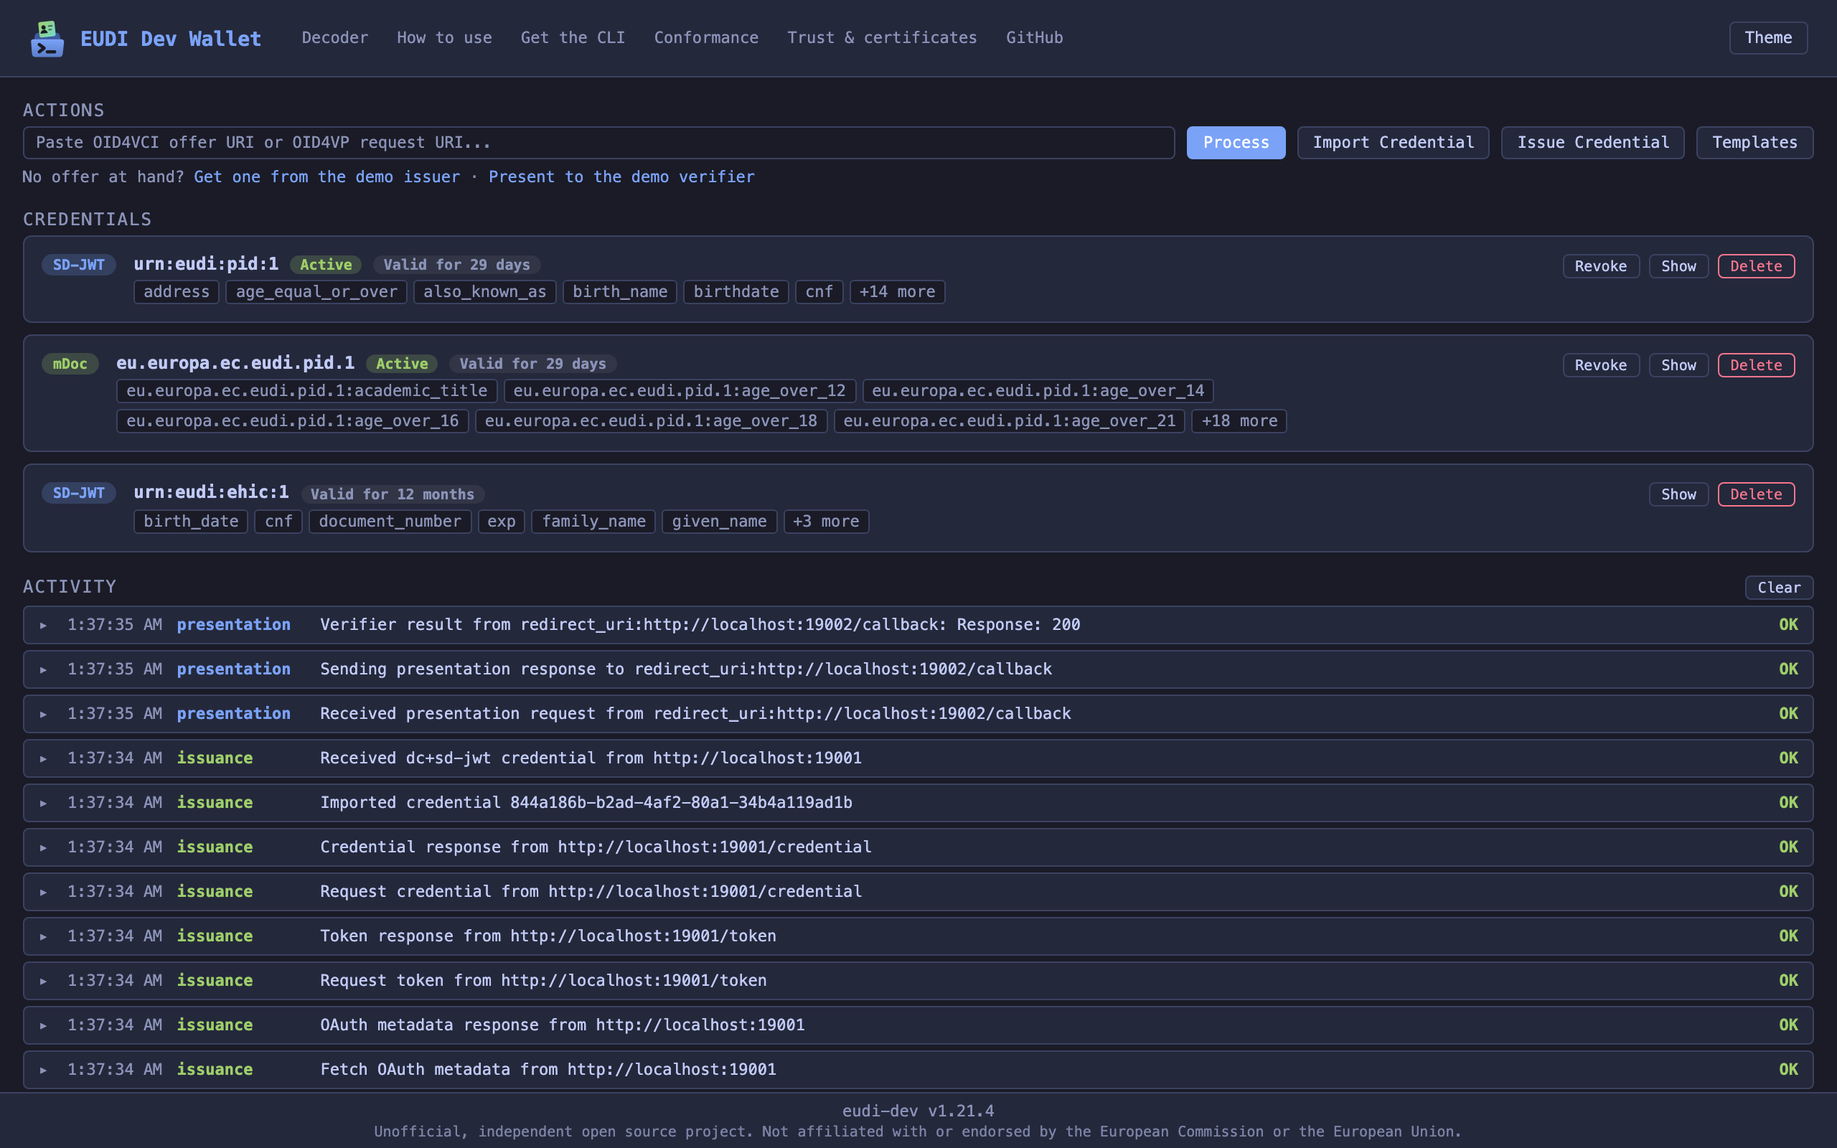
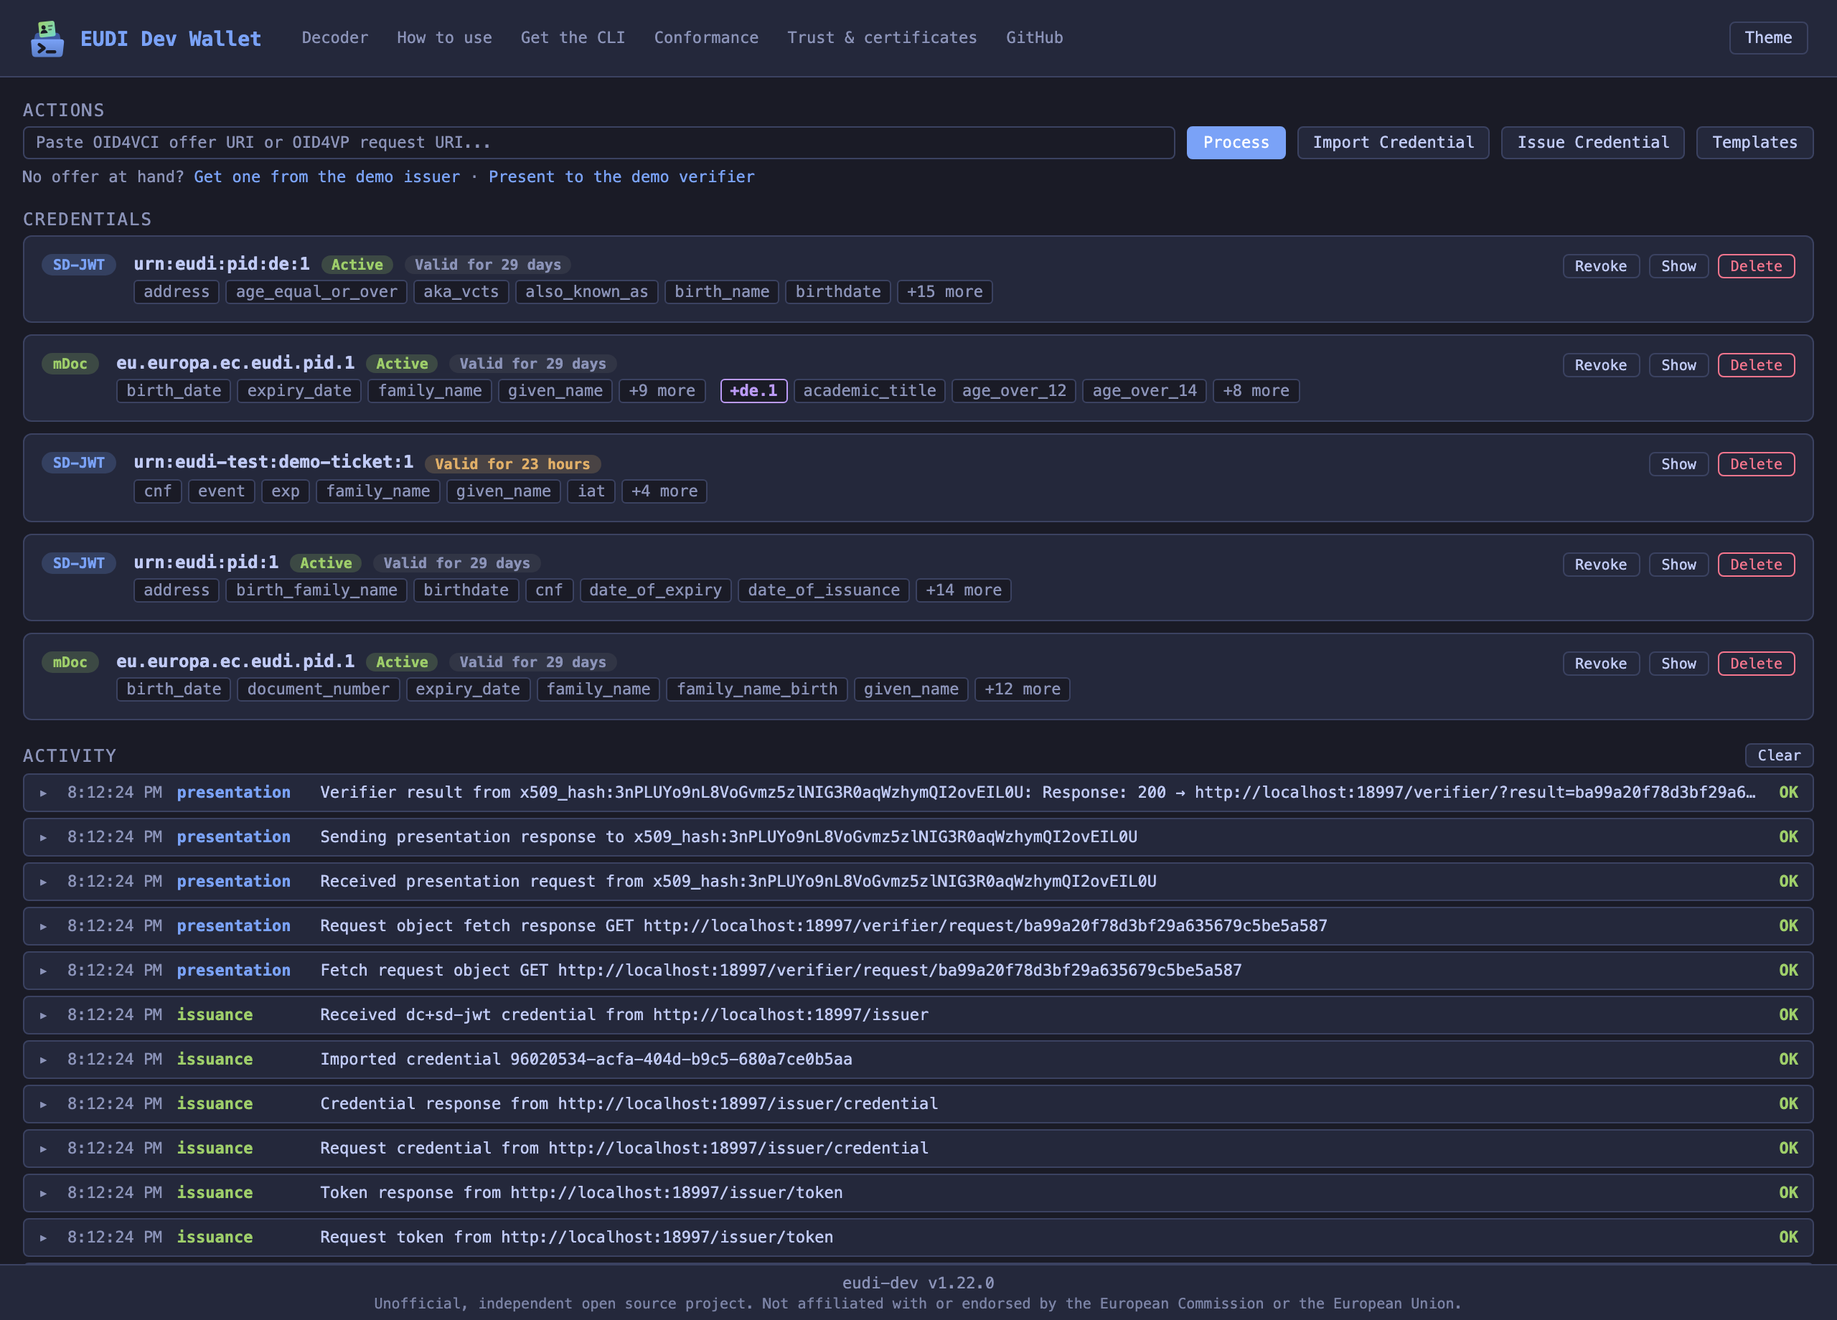
docs: state the PID types, inheritance and namespace grouping as they are

diff --git a/internal/demorp/static/verifier.html b/internal/demorp/static/verifier.html
@@ -93,13 +93,11 @@
     <button class="btn" id="request-pid" data-type="pid">Request the PID</button>
     <button class="btn" id="request-pid-de" data-type="pid" data-vct="urn:eudi:pid:de:1">Request the German PID</button>
     <p class="format-hint">
-      The PID request asks for <code>urn:eudi:pid:1</code>, which a national PID
-      answers as well because it extends that type. The German request asks for
-      <code>urn:eudi:pid:de:1</code>, which only a credential of that type can
-      answer, since inheritance runs one way. A national type is asked for in
-      SD-JWT VC alone: ISO/IEC 18013-5 has no inheritance between document types,
-      so every PID carries the same doctype and keeps its national elements in a
-      second namespace.
+      The PID request asks for <code>urn:eudi:pid:1</code>. A national PID answers
+      it too, because it extends that type. The German request asks for
+      <code>urn:eudi:pid:de:1</code>, which the German PID answers. It is SD-JWT VC
+      only, since every PID shares the mdoc doctype
+      <code>eu.europa.ec.eudi.pid.1</code>.
     </p>
     <div class="result" id="request-box">
       <div class="label">Open in the wallet on this host</div>

diff --git a/docs/wallet.md b/docs/wallet.md
@@ -96,18 +96,18 @@ The macOS URL handler honors the active remote wallet. While a remote target is 
 
 ## Credential type inheritance
 
-A national PID extends the country-independent one. The ARF requires it: PID_14 in Annex 2 (v3.0.0) says the vct "SHALL be `urn:eudi:pid:1` for the type defined in this document or a domestic type that extends it". `urn:eudi:pid:de:1` therefore carries every attribute `urn:eudi:pid:1` defines and adds the German ones, so a verifier asking for the general type is answered by the national credential. That is a rule, not a list: any type in the `urn:eudi:pid:` namespace whose next segment is a country or region rather than a version extends the country-independent PID, so `urn:eudi:pid:fr:1` behaves the same without anything here knowing about France. The wallet matches a DCQL `vct_values` entry against the credential's own type and against every type it extends, and its `[DCQL]` server log says when a credential matched under a type other than its own.
+A domestic PID extends the country-independent one. ARF Annex 2 (v3.0.0) PID_14 requires the vct to be "`urn:eudi:pid:1` for the type defined in this document or a domestic type that extends it", so `urn:eudi:pid:de:1` carries every attribute `urn:eudi:pid:1` defines plus the German ones.
 
-Inheritance runs one way. A request for `urn:eudi:pid:de:1` is not answered by a country-independent PID, which has not got the German attributes.
+The wallet matches a DCQL `vct_values` entry against the credential's own type and every type it extends. A request for `urn:eudi:pid:1` is answered by any PID, a request for `urn:eudi:pid:de:1` by a German PID. The `[DCQL]` server log names the requested type whenever a credential matched under a type other than its own.
 
-What the ARF does not say is how anyone discovers that relationship. The machine-readable form of it, a Type Metadata Document with an `extends` property ([SD-JWT VC](https://datatracker.ietf.org/doc/draft-ietf-oauth-sd-jwt-vc/) §4.4), is only a "SHOULD consider defining" (ARB_31), and it needs the document to be retrievable, which a `vct` that is a URN is not. So the wallet learns the relationship from two places instead:
+The relationship comes from two places:
 
-- the rule above, for PID types. This is what resolves real credentials today, since none of them carry `aka_vcts` yet
-- the `aka_vcts` claim of the credential (§2.2.2.2, added in draft-18 of 3 August 2026), which puts the statement in the credential itself. This is the general mechanism, and the only one for types outside `urn:eudi:pid:`: a credential of any type answers a request for every type it lists there. No EUDI rulebook requires it yet, so reading it is what makes the wallet work with issuers that adopt it. The German PID this tool issues carries it, to show the mechanism
+- the PID type itself. A segment after `urn:eudi:pid:` that is a country or region code (`urn:eudi:pid:de:1`, `urn:eudi:pid:fr:1`) marks a domestic type, which extends `urn:eudi:pid:1`. A segment that is a version number (`urn:eudi:pid:1`, `urn:eudi:pid:2`) marks the country-independent type
+- the `aka_vcts` claim ([SD-JWT VC](https://datatracker.ietf.org/doc/draft-ietf-oauth-sd-jwt-vc/) §2.2.2.2), which lists further types a credential is also of. It applies to every credential type, and the German PID this tool issues carries it
 
-None of this is a trust decision. Inheritance says what a credential is, never who may issue it (§6.6: "Verifiers and Holders MUST NOT assume that any issuer who issues a credential extending a known type is authorized to do so"). Issuer authorization is decided by the signature and trust list checks, unchanged.
+Inheritance states what a credential is, not who may issue it (§6.6: "Verifiers and Holders MUST NOT assume that any issuer who issues a credential extending a known type is authorized to do so"). Issuer authorization stays with the signature and trust list checks.
 
-mdoc has no equivalent, and the ARF does not invent one. ISO 18013-5 defines no inheritance between document types, so PID_05 fixes the doctype and namespace at `eu.europa.ec.eudi.pid.1` for every PID and PID_06 puts national elements in a domestic namespace built by appending the country code, `eu.europa.ec.eudi.pid.de.1` for Germany. A `doctype_value` request therefore reaches both PIDs already, and a claim query addresses a national element by its namespace: `"path": ["eu.europa.ec.eudi.pid.de.1", "birth_name"]`.
+In mdoc every PID carries the doctype `eu.europa.ec.eudi.pid.1` (PID_05), and national elements sit in a domestic namespace built by appending the country or region code to it (`eu.europa.ec.eudi.pid.de.1`, PID_06). A `doctype_value` request therefore reaches every PID, and a claim query addresses a national element by its namespace: `"path": ["eu.europa.ec.eudi.pid.de.1", "birth_name"]`.
 
 ## Storage
 
@@ -201,7 +201,7 @@ The server exposes:
 
 The consent dialog for a credential offer shows the issuer's name and origin, the flow the offer uses, whether a transaction code will be required, and for each offered credential its format, type, display name, description and declared claims. Everything beyond the offer itself is read from the issuer's metadata and is optional. An offer delivered as a `credential_offer_uri` is dereferenced for the dialog too, and fetched again when the offer is approved. If it cannot be retrieved, the dialog names the issuer it points at and approving retries.
 
-A credential card lists what the credential carries. For an mdoc that means each namespace by name with a few of its elements, because two credentials can share a doctype and differ only in the namespaces they use, as the two PIDs do.
+A credential card lists a few of the claims the credential carries. An mdoc element outside the doctype's own namespace is grouped under that namespace, labelled with the segments it adds (`+de.1` for `eu.europa.ec.eudi.pid.de.1` next to `eu.europa.ec.eudi.pid.1`, full identifier on hover). This is what tells two credentials of the same doctype apart, such as the two PIDs.
 
 Credentials can be issued interactively from the web UI. The Issue Credential dialog shows format specific fields and offers a claim builder next to a raw JSON editor. Selecting a credential template (for example the pre-defined `german-pid-sdjwt`) fills all fields so they can be reviewed and edited before issuing. A status list selector controls the embedded status reference (the wallet's own list when configured, none, or a custom URI and index).
 

diff --git a/docs/templates.md b/docs/templates.md
@@ -11,15 +11,15 @@ Four pre-defined templates ship with the binary, a PID per format for each of th
 | `german-pid-sdjwt` | sdjwt | German PID (`urn:eudi:pid:de:1`), which extends the EUDI PID |
 | `german-pid-mdoc` | mdoc | German PID (ISO 18013-5 elements, `eu.europa.ec.eudi.pid.1` plus `eu.europa.ec.eudi.pid.de.1`) |
 
-The `pid-*` templates follow the attribute tables of the [EUDI PID Rulebook](https://github.com/eu-digital-identity-wallet/eudi-doc-attestation-rulebooks-catalog/blob/main/rulebooks/pid/pid-rulebook.md), which now lives in the attestation rulebooks catalog rather than in the ARF annex it was taken out of. The `german-pid-*` templates follow the claim table of the [German PID Rulebook](https://demo.pid-provider.bundesdruckerei.de/credential-claims). All four describe that provider's ERIKA MUSTERMANN test identity, so what separates them is the rulebook rather than the person.
+The `pid-*` templates follow the attribute tables of the [EUDI PID Rulebook](https://github.com/eu-digital-identity-wallet/eudi-doc-attestation-rulebooks-catalog/blob/main/rulebooks/pid/pid-rulebook.md) (version 1.7). The `german-pid-*` templates follow the claim table of the [German PID Rulebook](https://demo.pid-provider.bundesdruckerei.de/credential-claims). All four describe that provider's ERIKA MUSTERMANN test identity, so the rulebook is what separates them.
 
-The German PID is not a superset of the country-independent one. It adds national attributes (`birth_name`, `title`, `also_known_as`, `source_document_type`, `no_place_info`, and the age thresholds, which the EU rulebook dropped in version 1.1 following CIR 2024/2977), leaves out claims the German eID does not supply (portrait, sex, email, phone number, document number, personal administrative number, issuing jurisdiction, issuance date, age_in_years, age_birth_year, birth given and family name), and encodes some shared attributes differently: a birth name under `birth_name` rather than `birth_family_name`, and a street address with the house number folded into it.
+Each rulebook defines its own attribute set. The German one adds national attributes (`birth_name`, `title`, `also_known_as`, `source_document_type`, `no_place_info`, and the age thresholds in `age_equal_or_over`). The EU one carries attributes the German eID leaves to other documents (`sex`, `document_number`, `personal_administrative_number`, `date_of_issuance`, `birth_family_name`). Shared attributes can be encoded differently: the German birth name is `birth_name` where the EU one is `birth_family_name`, and the German street address holds the house number where the EU one has `address.house_number`.
 
-The German SD-JWT PID carries an `aka_vcts` claim naming `urn:eudi:pid:1`. That is what tells a verifier the credential is also of the type it extends ([SD-JWT VC](https://datatracker.ietf.org/doc/draft-ietf-oauth-sd-jwt-vc/) §2.2.2.2), so a request for the country-independent PID is answered by it. See [credential type inheritance](wallet.md#credential-type-inheritance).
+The German SD-JWT PID carries an `aka_vcts` claim naming `urn:eudi:pid:1` ([SD-JWT VC](https://datatracker.ietf.org/doc/draft-ietf-oauth-sd-jwt-vc/) §2.2.2.2), so a request for the country-independent PID is answered by it. See [credential type inheritance](wallet.md#credential-type-inheritance).
 
-The German mdoc PID spans two namespaces, as the rulebook prescribes: the European elements in `eu.europa.ec.eudi.pid.1` and the national additions (`birth_name`, `academic_title`, `also_known_as`, `no_place_info`, `source_document_type`, `age_over_*`) in `eu.europa.ec.eudi.pid.de.1`. Its doctype stays `eu.europa.ec.eudi.pid.1`, because ISO 18013-5 has no inheritance between document types. Any mdoc claim key may carry a `namespace:element` prefix to place it in a specific namespace. Everything else lands in the template's namespace. Dates are CBOR tagged the way ISO 18013-5 expects, a calendar day as full-date (tag 1004) and a timestamp as tdate (tag 0).
+The German mdoc PID spans two namespaces, as the rulebook prescribes: the European elements in `eu.europa.ec.eudi.pid.1` and the national additions (`birth_name`, `academic_title`, `also_known_as`, `no_place_info`, `source_document_type`, `age_over_*`) in `eu.europa.ec.eudi.pid.de.1`. Its doctype is `eu.europa.ec.eudi.pid.1`, the one every PID carries. Any mdoc claim key may carry a `namespace:element` prefix to place it in a specific namespace. Everything else lands in the template's namespace. Dates are CBOR tagged the way ISO 18013-5 expects, a calendar day as full-date (tag 1004) and a timestamp as tdate (tag 0).
 
-Because the two mdoc PIDs share a doctype, what tells them apart when a PID is regenerated is the set of namespaces its elements sit in. Overriding `german-pid-mdoc` with a claim set that has no `eu.europa.ec.eudi.pid.de.1` element (or adding one to `pid-mdoc`) makes them indistinguishable, and regenerating one then replaces the other.
+Regenerating a PID (`wallet generate-pid`, `POST /api/generate-pid`) replaces the mdoc PID that uses the same namespaces, since the two share a doctype. Give an overridden `german-pid-mdoc` at least one `eu.europa.ec.eudi.pid.de.1` element to keep it apart from `pid-mdoc`.
 
 The PID convenience paths (`issue ... --pid`, `wallet generate-pid`, and `POST /api/generate-pid`) resolve through these templates, picking the pair that matches the requested type: the `pid-*` templates by default, the `german-pid-*` ones for `--vct urn:eudi:pid:de:1`. Saving a user template under the same name overrides the pre-defined version everywhere, including those paths. A local instance can change what the pre-defined PID templates issue (delete the override to restore the original). `wallet generate-pid` and `POST /api/generate-pid` are deprecated. Issue with the template names instead.
 

diff --git a/docs/issue.md b/docs/issue.md
@@ -102,9 +102,9 @@ Unlike SD-JWT, the JWT subcommand produces a standard JWT with all claims direct
 | `--status-list-uri` | —                       | Status list URI to embed in credential         |
 | `--status-list-idx` | `0`                     | Status list index to embed in credential       |
 
-When no `--claims` are provided, a minimal set of PID-like claims is used (given_name, family_name, birthdate). With `--pid`, the full PID claim set of the requested type is generated: fourteen top-level claims for SD-JWT (including the nested `address` and `place_of_birth` objects) and eighteen mdoc elements, following the [EUDI PID Rulebook](https://github.com/eu-digital-identity-wallet/eudi-doc-attestation-rulebooks-catalog/blob/main/rulebooks/pid/pid-rulebook.md) attribute for attribute. It carries no age attributes, which that rulebook removed in version 1.1 following CIR 2024/2977.
+When no `--claims` are provided, a minimal set of PID-like claims is used (given_name, family_name, birthdate). With `--pid`, the full PID claim set of the requested type is generated: fourteen top-level claims for SD-JWT (including the nested `address` and `place_of_birth` objects) and eighteen mdoc elements, following the [EUDI PID Rulebook](https://github.com/eu-digital-identity-wallet/eudi-doc-attestation-rulebooks-catalog/blob/main/rulebooks/pid/pid-rulebook.md) (version 1.7) attribute for attribute.
 
-`--vct urn:eudi:pid:de:1` selects the German PID instead, which follows the German PID Rulebook: national attributes added, claims the German eID does not supply left out, and twenty-four mdoc elements across the two namespaces that rulebook defines. A credential from this tool and one from the German PID provider are interchangeable. Both PID claim sets come from the pre-defined `pid-sdjwt`, `pid-mdoc`, `german-pid-sdjwt` and `german-pid-mdoc` credential templates, so a user template saved under one of those names changes what `--pid` issues.
+`--vct urn:eudi:pid:de:1` selects the German PID, which follows the German PID Rulebook: fifteen top-level SD-JWT claims (including `aka_vcts` and the age thresholds) and twenty-four mdoc elements across the two namespaces that rulebook defines. A credential from this tool and one from the German PID provider are interchangeable. Both claim sets come from the pre-defined `pid-sdjwt`, `pid-mdoc`, `german-pid-sdjwt` and `german-pid-mdoc` credential templates, so a user template saved under one of those names changes what `--pid` issues. See [templates](templates.md).
 
 With `--template`, the template supplies the claim set and any type, namespace, and expiry defaults for flags that were not set explicitly. `--claims` then overrides individual top level claims and `--omit` removes claims from the merged result. See [templates](templates.md) for the template file format and the `templates` management commands.
 

diff --git a/docs/public-demo.md b/docs/public-demo.md
@@ -35,7 +35,9 @@ The wallet UI pages the credential list (ten per page), so a demo that accumulat
 
 The demo seeds four PID credentials: the country-independent EUDI PID (`urn:eudi:pid:1`) and the German PID that extends it (`urn:eudi:pid:de:1`), each as an SD-JWT VC and an mdoc. The two carry different attributes, each following its own rulebook.
 
-The verifier page asks for either. Its PID request names `urn:eudi:pid:1`, which both credentials answer (that is [credential type inheritance](wallet.md#credential-type-inheritance) at work, and the wallet log names the German PID as a candidate), and the wallet presents one of them. Its German PID request (`#request-pid-de`, next to `#request-pid` and `#request-ticket`) names `urn:eudi:pid:de:1`, which only a credential of that type answers, the other half of the rule: inheritance runs one way. Nothing about that request is German. `POST /verifier/api/requests` takes the type as `vct` (any type in `urn:eudi:pid:`, so `urn:eudi:pid:fr:1` works the same), and a request naming one is SD-JWT VC only, because a national PID has no doctype of its own to ask for.
+The verifier page has a button for each. The PID request (`#request-pid`) names `urn:eudi:pid:1`, which both credentials answer, and the wallet presents one of them. The German PID request (`#request-pid-de`) names `urn:eudi:pid:de:1`, which the German credential answers. This is [credential type inheritance](wallet.md#credential-type-inheritance) in both directions.
+
+`POST /verifier/api/requests` takes the type as `vct`, and accepts any type in `urn:eudi:pid:` (`urn:eudi:pid:fr:1` works the same). A request naming a domestic type is SD-JWT VC only, since every PID shares the mdoc doctype `eu.europa.ec.eudi.pid.1`.
 
 All four are marked protected: the UI, the API and the CLI refuse to delete or revoke them, so a visitor emptying the wallet cannot leave the demo without a baseline. Everything a visitor issues afterwards behaves normally and can be deleted. Clearing the flag needs direct access to `wallet.json`.
 

diff --git a/CONTEXT.md b/CONTEXT.md
@@ -26,7 +26,7 @@ A reusable, named claim set and issuance settings that a credential can be minte
 _Avoid_: Preset, profile
 
 **PID**:
-Person Identification Data, the EUDI-defined identity credential. It comes in two types here, and which one is meant usually matters: the country-independent **EUDI PID** of the ARF rulebook and the **German PID** that extends it. "PID" unqualified means the credential, not either type. Never abbreviate process id this way in code that also touches credentials, because the collision has already produced one shadowing bug.
+Person Identification Data, the EUDI-defined identity credential. It comes as the country-independent **EUDI PID** of the ARF rulebook and as domestic types that extend it, such as the **German PID**. Say which one is meant when it matters. "PID" unqualified means the credential, not a type. Never abbreviate process id this way in code that also touches credentials, because the collision has already produced one shadowing bug.
 _Avoid_: PID as process id (write `processID`)
 
 ### Roles

diff --git a/README.md b/README.md
@@ -21,6 +21,7 @@ An unofficial developer toolkit for the EUDI and OpenID4VC ecosystem. Decode, is
 - **QR Screen Capture**: scan a QR code straight from your screen to decode credentials or OpenID requests ([decode --screen](#decode))
 - **Offline Decode & Validate**: SD-JWT, JWT VC, mDOC, JWT with signature verification and trust list support
 - **DCQL Generation**: generate Digital Credentials Query Language queries from existing credentials
+- **Credential Type Inheritance**: a request for `urn:eudi:pid:1` is answered by a domestic PID such as `urn:eudi:pid:de:1` ([inheritance](docs/wallet.md#credential-type-inheritance))
 
 ## Compared to other EUDI tooling
 
